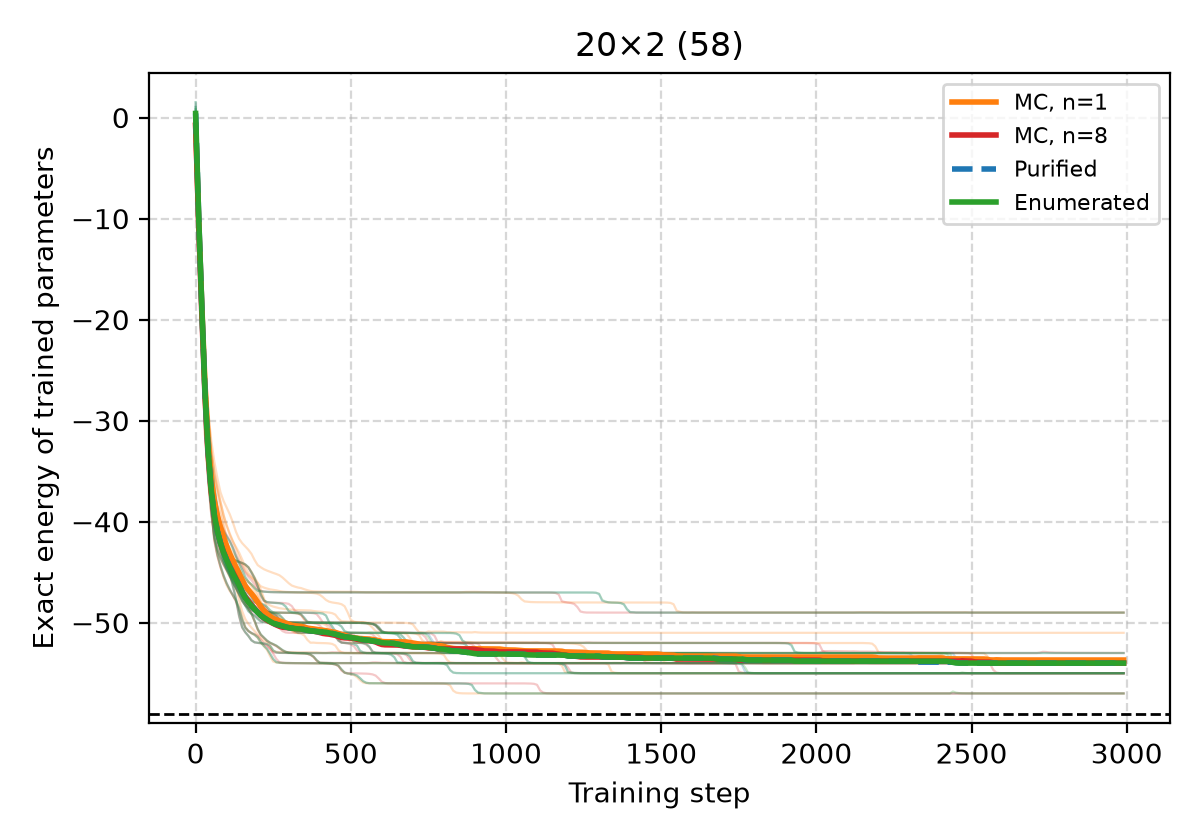
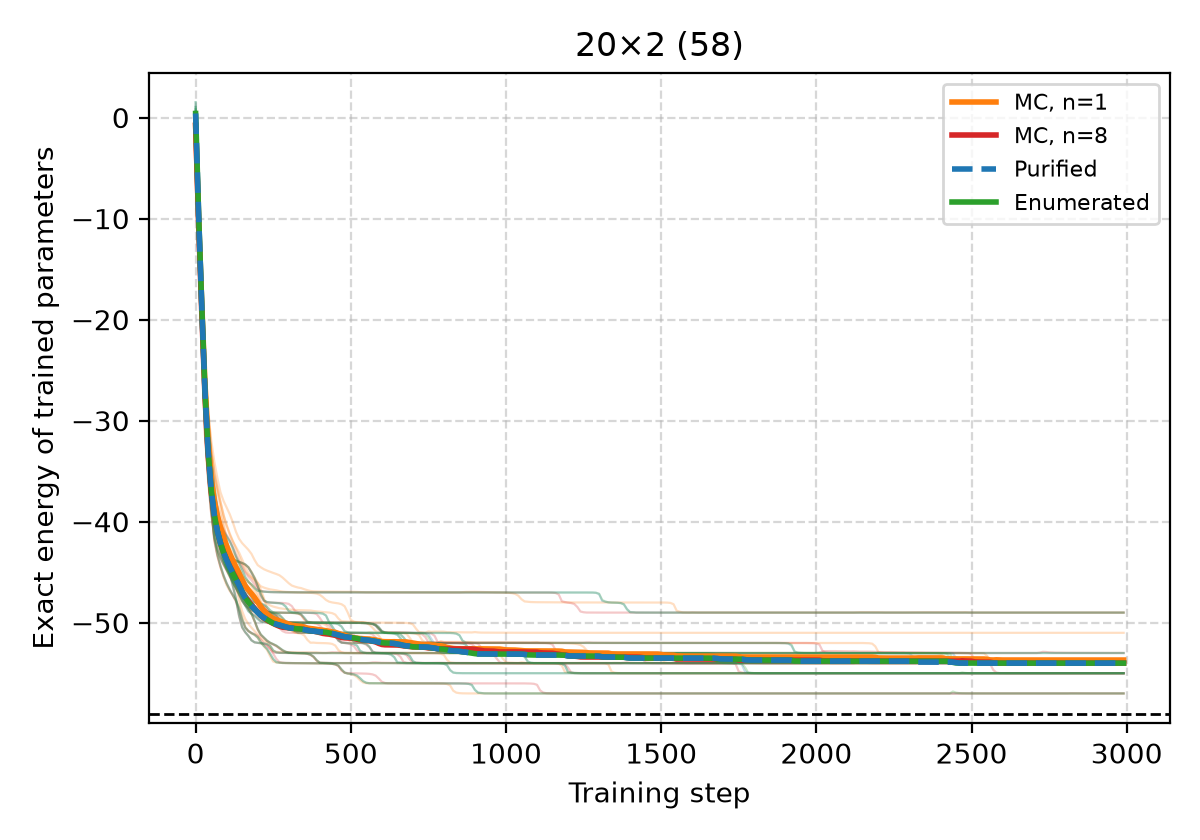
exp1_compare: purified dashed only where it overlaps enumerated, and drawn on top

diff --git a/src/experiments/exp1_compare.py b/src/experiments/exp1_compare.py
@@ -235,9 +235,12 @@ def plot_per_size(rows, out_dir, plt):
             if not ok:
                 continue
             drawn = True
+            # Purified and enumerated coincide only in the energy-gap plots: there
+            # purified is dashed and drawn on top so enumerated shows through.
+            overlap = key.startswith("energy_gap") and m == "purified"
             ax.plot([r["n_qubits"] for r in ok], [r[key] * scale for r in ok], color=colour,
                     marker="o", ms=3.5, lw=1.2, label=label,
-                    ls="--" if m == "purified" else "-")
+                    ls="--" if overlap else "-", zorder=4 if overlap else 2)
         if not drawn:
             plt.close(fig)
             continue
@@ -292,9 +295,11 @@ def _plot_training_curves(rows, out_dir, plt, col, ylabel, suffix):
                 continue
             steps = data["step"][data["trial"] == trials[0]]
             # Purified and enumerated are both exact and share initial
-            # parameters, so their curves coincide; dash purified so both show.
+            # parameters, so their curves coincide: purified is dashed and drawn
+            # on top (higher zorder) so both stay visible.
+            pur = r["method"] == "purified"
             ax.plot(steps, np.mean(curves, axis=0), color=colour, lw=2, label=label,
-                    ls="--" if r["method"] == "purified" else "-", zorder=3)
+                    ls="--" if pur else "-", zorder=4 if pur else 3)
         ax.axhline(exact_ground_energy(Lx, Ly), color="k", ls="--", lw=1)
         ax.set_xlabel("Training step")
         ax.set_ylabel(ylabel)
